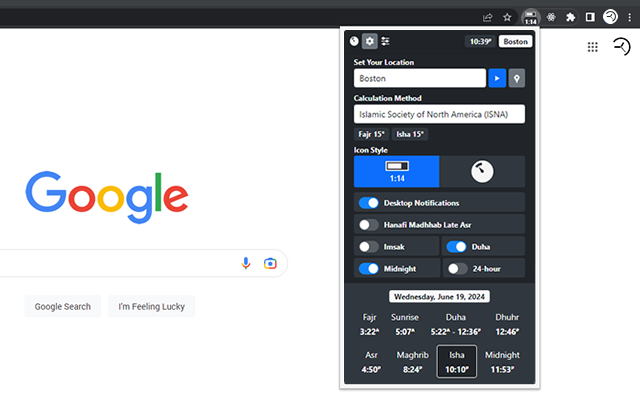
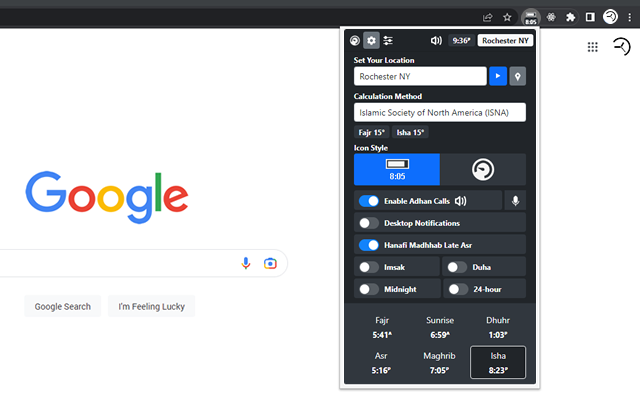
audio volume setting

Changed region(s): [[0.5312, 0.06, 0.8438, 0.96], [0.6562, 0.03, 0.8438, 0.12], [0.7812, 0.48, 0.8125, 0.51]]

diff --git a/js/index.js b/js/index.js
@@ -82,7 +82,12 @@ const runApp = async () => {
         vd.show();
     }
 
-    setFields(appSettings);
+    for (let i = 0; i < appSettings.allVakits.length; i++) {
+        let vakit = appSettings.allVakits[i].name.toLowerCase();
+        $('#offset-' + vakit).html(appSettings.allVakits[i].displayTime);
+    }
+
+    setFields();
 
 }
 
@@ -334,6 +339,15 @@ document.getElementById('adhanOffsetSettings').addEventListener('change', functi
     }
 });
 
+document.getElementById('volume').addEventListener('change', function (event) {
+    chrome.storage.local.get(['appSettings'], function (result) {
+        appSettings = result.appSettings;
+        appSettings.volume = event.target.value * 1;
+        saveAppSettingsAndRefresh(appSettings);
+        playAudio(102);
+    });
+});
+
 const saveAppSettingsAndRefresh = (appSettings) => {
     chrome.storage.local.set({ 'appSettings': appSettings }, function () {
         goGoRun('appSettings updated');
@@ -341,7 +355,7 @@ const saveAppSettingsAndRefresh = (appSettings) => {
     });
 }
 
-const setFields = async (appSettings) => {
+const setFields = async () => {
 
     $('#stopAdhanDiv').hide();
     if (adhanStatus.isBeingCalled)
@@ -440,12 +454,21 @@ const setFields = async (appSettings) => {
         calculationMethod.appendChild(option);
     });
 
+    $('#audioVolumeIcon').attr('src', 'images/audio-' + appSettings.volume + '.png');
+    $('#audioVolumeDiv').attr('title', 'Audio Volume: ' + appSettings.volume);
+    if (appSettings.areAdhansEnabled)
+        $('#volume').attr('disabled', false);
+    else
+        $('#volume').attr('disabled', true);
     if (!$('#adhanOffsetSettings').is(':visible'))
         displayAdhansAndOffsets();
 
 }
 
 const displayAdhansAndOffsets = () => {
+
+    $('#volume').val(appSettings.volume);
+
     $('.offsetCurrentVakit').removeClass('offsetCurrentVakit');
     let adhanVakits = ['imsak', 'fajr', 'duha', 'duhaend', 'dhuhr', 'asr', 'maghrib', 'isha'];
     let aoContent = `<div class="badge p-0 mt-0">${appSettings.i18n.adhansAndOffsetsTitle}</div>`;
@@ -454,7 +477,6 @@ const displayAdhansAndOffsets = () => {
     let duhaOffset = duhaDefaultOffset + (appSettings.vakitOffsets && appSettings.vakitOffsets.duha ? appSettings.vakitOffsets.duha : 0);
     let duhaendOffset = duhaendDefaultOffset + (appSettings.vakitOffsets && appSettings.vakitOffsets.duhaend ? appSettings.vakitOffsets.duhaend : 0);
     let currentVakit = appSettings.allVakits.find(f => f.isCurrentVakit).name.toLowerCase();
-
 
     $('.adhan-on').hide();
     $('.adhan-off').hide();
@@ -471,7 +493,7 @@ const displayAdhansAndOffsets = () => {
         let thisAdhanAudioID = appSettings.adhans[v] ?? 0;
         let thisAudioTitle = adhanAudios.find(a => a.id == thisAdhanAudioID)?.name;
         aoContent += `<div id=settingBox${v} class="bg-darkish px-1
-                    ${v == 'duha' ? 'rounded-top pt-2' : (v == 'duhaend' ? 'rounded-bottom pt-1 pb-2' : 'rounded py-2')}
+                    ${v == 'duha' ? 'rounded-top pt-1' : (v == 'duhaend' ? 'rounded-bottom pb-1' : 'rounded py-2')}
                     ${v != 'duha' ? 'mb-1' : ''}
                     ${thisTime.isCurrentVakit || (v == 'duhaend' && currentVakit == 'duha') ? 'border-start border-3 border-light' : ''}">`;
         aoContent += `<div class="d-flex flex-row justify-content-between">`;
@@ -491,7 +513,7 @@ const displayAdhansAndOffsets = () => {
 
         aoContent += '</div>';
 
-        aoContent += `<div class="col-2"><span class="badge">${timeValue}</span></div>`
+        aoContent += `<div class="col-2"><span id="offset-${v}" class="badge">${timeValue}</span></div>`
 
         /* offsets */
 
@@ -626,6 +648,7 @@ const displayAdhansAndOffsets = () => {
 
 const playAudio = (id) => {
     audioPlayer.src = '/adhans/' + id + '.mp3';
+    audioPlayer.volume = appSettings.volume / 10;
     $('.playAudioButton').attr('src', '/images/stop.png').addClass('bg-danger');
     audioPlayer.play();
     $('#audioPlayerDiv').show();

diff --git a/serviceWorker.js b/serviceWorker.js
@@ -15,6 +15,20 @@ self.addEventListener('message', async (msg) => {
 let appSettings = {};
 let adhanStatus = {};
 let currentVakit;
+let currentTime;
+let currentTimeString;
+let prayerTimes;
+let hijriCurrentTime;
+let hijriDate;
+let nextVakit;
+let totalMinutesInVakit;
+let remainingMinutesInVakit;
+let aroundTheClock;
+let iconColor;
+let badgeBackgroundColor;
+let iconTextColor;
+let clockFaceVakit;
+
 const r = 160;
 const ir = 12;
 const colors = { black: '#212529', silver: 'whitesmoke', tomato: '#F20031', gray: '#2E3338' };
@@ -93,6 +107,9 @@ async function initUser(i18nValues, appSettings) {
             if (!appSettings.hanafiAsr) {
                 appSettings.hanafiAsr = false;
             }
+            if (!appSettings.volume) {
+                appSettings.volume = 5;
+            }
             await chrome.storage.local.set({ 'appSettings': appSettings });
             await initAlarm();
         }
@@ -115,7 +132,8 @@ async function initUser(i18nValues, appSettings) {
                 showDuha: false,
                 showMidnight: false,
                 adhans: defaultAdhanSettings,
-                areAdhansEnabled: false
+                areAdhansEnabled: false,
+                volume: 5
             };
             await chrome.storage.local.set({ 'appSettings': appSettings });
         }
@@ -143,6 +161,7 @@ async function initDefaultUser(i18nValues) {
     appSettings.showMidnight = false;
     appSettings.adhans = defaultAdhanSettings;
     appSettings.areAdhansEnabled = false;
+    appSettings.volume = 5;
     await chrome.storage.local.set({ 'appSettings': appSettings });
 }
 
@@ -279,7 +298,7 @@ function populateVakitsAndVars() {
             vakits.push(ishaFajrVakit);
     }
 
-    cvi = vakits.findIndex(a => a.isCurrentVakit);
+    let cvi = vakits.findIndex(a => a.isCurrentVakit);
     currentVakit = vakits[cvi];
     nextVakit = vakits[(cvi + 1) % vakits.length];
 
@@ -291,7 +310,6 @@ function populateVakitsAndVars() {
     totalMinutesInVakit = diffMinutesBetweenTimes(currentVakit.time24, nextVakit.time24);
     aroundTheClock = totalMinutesInVakit >= 720;
     remainingMinutesInVakit = diffMinutesBetweenTimes(currentTimeString, nextVakit.time24);
-    passedInVakit = totalMinutesInVakit - remainingMinutesInVakit;
 
     appSettings.isLastHour = false;
 
@@ -728,7 +746,6 @@ function isAdhanAvailable() {
 
 /* - - - - - - - - - - - - - - - - - */
 async function callAdhan() {
-
     if (isAdhanAvailable()) {
         let callString = appSettings.timeNow24 + '-' + currentVakit.name + '-' + appSettings.currentVakitAdhanAudioID;
         if (adhanStatus.lastCall && adhanStatus.lastCall === callString) {
@@ -737,11 +754,8 @@ async function callAdhan() {
         else {
             await chrome.storage.local.set({ 'adhanStatus': { lastCall: callString, isBeingCalled: true } });
             await createOffscreen();
-            await chrome.runtime.sendMessage({ audioID: appSettings.currentVakitAdhanAudioID });
+            await chrome.runtime.sendMessage({ audioID: appSettings.currentVakitAdhanAudioID, volume: appSettings.volume });
         }
-    }
-    else {
-        console.log('Not enabled. Current vakit: ' + currentVakit.name);
     }
 }
 

diff --git a/index.html b/index.html
@@ -186,12 +186,25 @@
                 </div>
 
                 <div id="adhanOffsetSettings" class="tabDiv text-start h-100 pb-3" style="display:none;">
-                    <div class="d-flex flex-column h-100 justify-content-between">
+                    <div class="d-flex flex-column h-100 justify-content-between" style="overflow: hidden;">
 
                         <div id="adhanOffsetSettingsContent"></div>
+
+                        <div id="audioVolumeDiv" class="bg-darkish rounded px-2 py-1">
+                            <div class="d-flex flex-row align-items-center justify-content-start gap-2">
+                                <div class="flex-shrink-1">
+                                    <img id="audioVolumeIcon" style="width: 30px;" />
+                                </div>
+                                <div class="flex-grow-1">
+                                    <input type="range" class="form-range pt-1 m-0" min="1" max="10" increment="1"
+                                        id="volume">
+                                </div>
+                            </div>
+                        </div>
+
                         <div>
-                            <div class="badge p-0 mt-2" id="hijriDateOffsetTitle"></div>
-                            <div class="bg-darkish px-1 py-2 rounded">
+                            <div class="badge p-0" id="hijriDateOffsetTitle"></div>
+                            <div class="bg-darkish px-1 py-1 rounded">
                                 <div class="d-flex flex-row align-items-end justify-content-between">
                                     <div class="col-7">
                                         <span class="todaysDateArabic badge"></span>
@@ -212,7 +225,7 @@
                             </div>
                         </div>
 
-                        <div class="d-flex flex-row justify-content-between align-items-center mt-2 gap-2">
+                        <div class="d-flex flex-row justify-content-between align-items-center gap-2">
                             <div>
                                 <select class="form-control form-control-sm" id="displayLanguage">
                                 </select>
@@ -221,7 +234,7 @@
                                 <button id="appResetButton" class="btn btn-danger text-light btn-sm col-12"></span>
                             </div>
                             <div>
-                                <a title="Chrome Extension Reviews Page"
+                                <a title="Thank you for review!"
                                     href="https://chromewebstore.google.com/detail/prayer-times-chrome-exten/fbkmgnkliklgbmanjkmiihkdioepnkce/reviews"
                                     target="_blank"><img src="images/review.png" class="img-fluid p-0 m-0" /></a>
                             </div>

diff --git a/js/adhan.js b/js/adhan.js
@@ -1,6 +1,10 @@
 const aap = document.getElementById('adhanAudioPlayer');
 
 chrome.runtime.onMessage.addListener(msg => {
+
+    if ('volume' in msg)
+        aap.volume = msg.volume / 10;
+
     if ('audioID' in msg) {
         if (aap.paused) {
             aap.src = '/adhans/' + msg.audioID + '.mp3';
